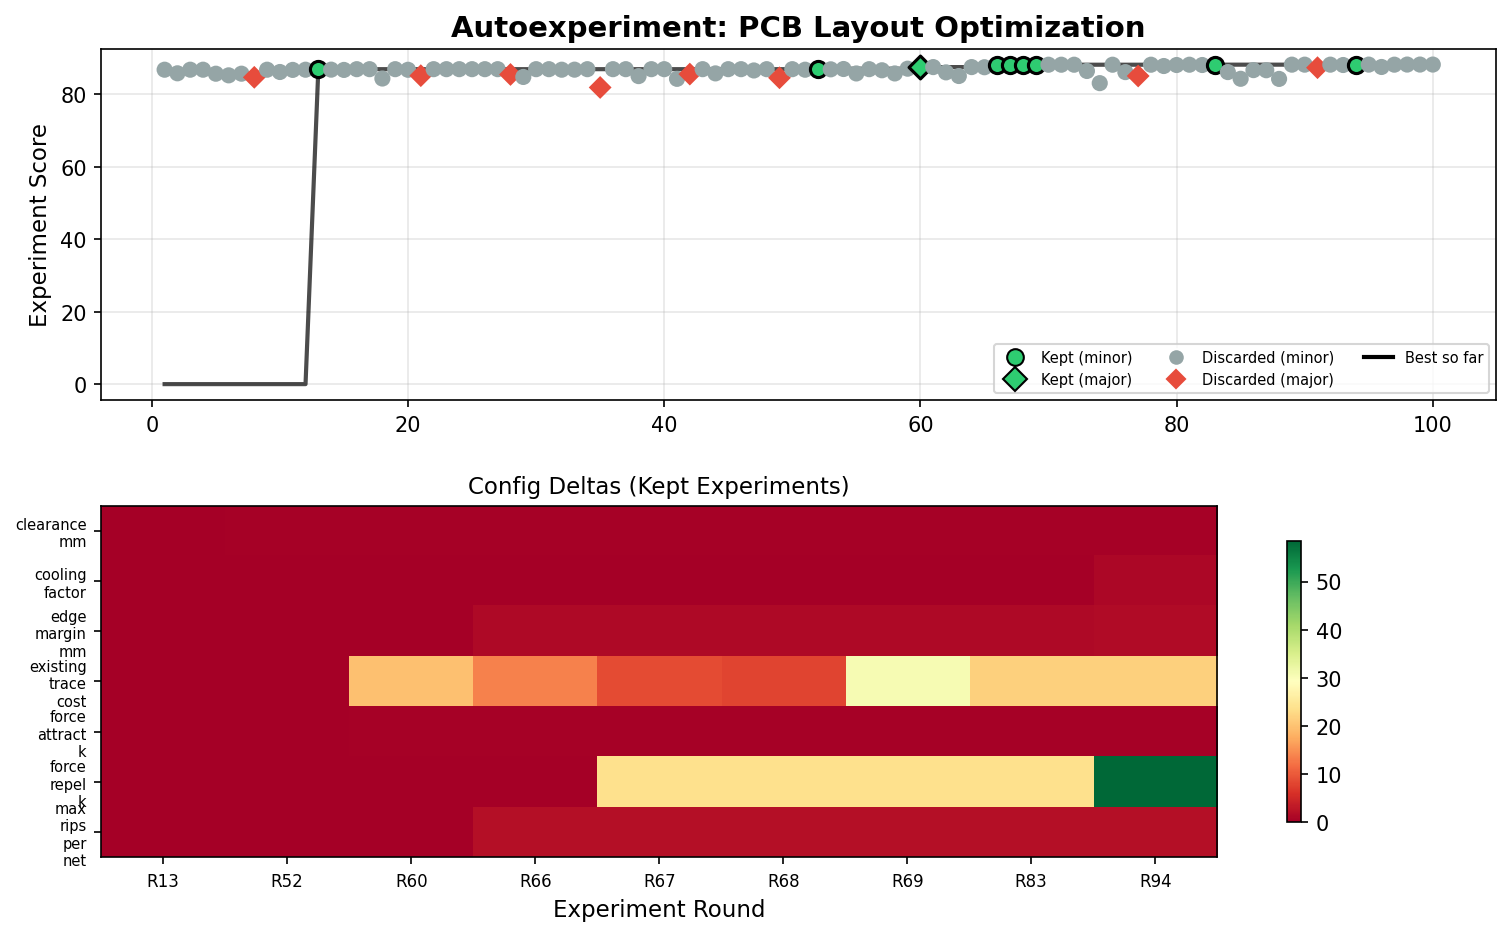
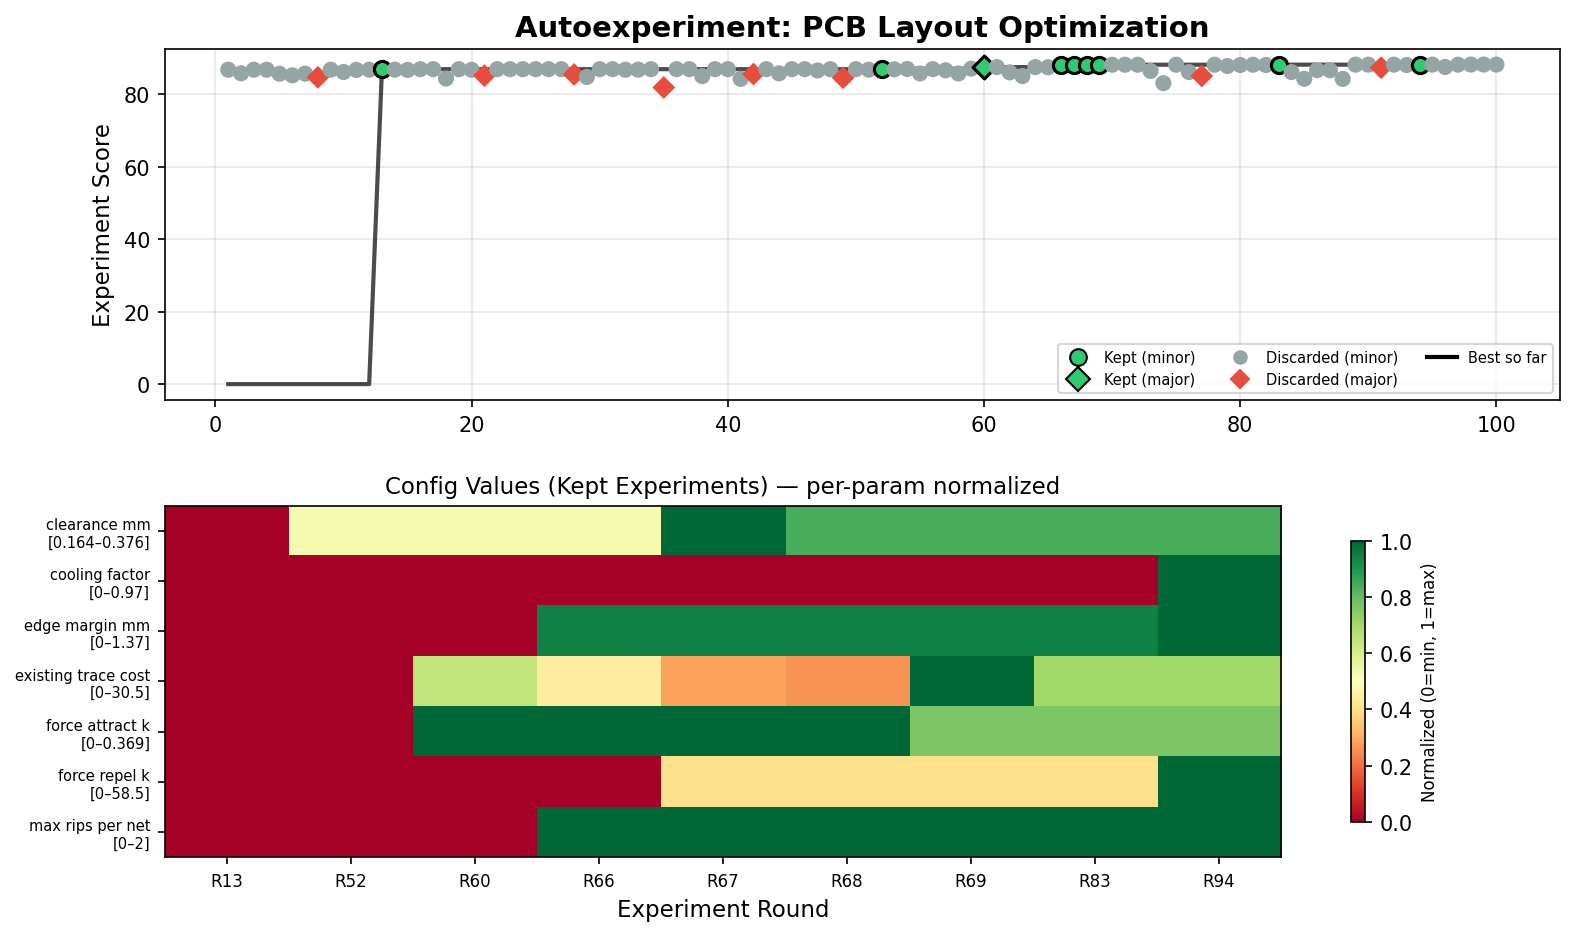
Normalize heatmap per-param to fix blown-out scale
Each parameter row is now 0-1 normalized with actual value
ranges shown in y-axis labels.

diff --git a/.claude/skills/kicad-helper/scripts/plot_experiments.py b/.claude/skills/kicad-helper/scripts/plot_experiments.py
@@ -83,14 +83,29 @@ def plot_experiments(experiments, output_path):
                 data.append(row)
                 labels.append(f"R{e['round_num']}")
 
-            ax2.set_title("Config Deltas (Kept Experiments)", fontsize=11)
+            ax2.set_title("Config Values (Kept Experiments) — per-param normalized", fontsize=11)
             if len(data) > 0 and len(data[0]) > 0:
-                im = ax2.imshow(np.array(data).T, aspect="auto", cmap="RdYlGn")
+                arr = np.array(data).T  # shape: (params, experiments)
+                # Normalize each param row to 0-1 so different scales don't blow out
+                for row_i in range(arr.shape[0]):
+                    row_min, row_max = arr[row_i].min(), arr[row_i].max()
+                    if row_max - row_min > 1e-9:
+                        arr[row_i] = (arr[row_i] - row_min) / (row_max - row_min)
+                    else:
+                        arr[row_i] = 0.5
+                im = ax2.imshow(arr, aspect="auto", cmap="RdYlGn", vmin=0, vmax=1)
                 ax2.set_xticks(range(len(labels)))
                 ax2.set_xticklabels(labels, fontsize=8)
                 ax2.set_yticks(range(len(all_keys)))
-                ax2.set_yticklabels([k.replace("_", "\n") for k in all_keys], fontsize=7)
-                plt.colorbar(im, ax=ax2, shrink=0.8)
+                # Show actual value range in label
+                raw = np.array(data).T
+                ylabels = []
+                for ki, k in enumerate(all_keys):
+                    lo, hi = raw[ki].min(), raw[ki].max()
+                    ylabels.append(f"{k.replace('_', ' ')}\n[{lo:.3g}–{hi:.3g}]")
+                ax2.set_yticklabels(ylabels, fontsize=7)
+                cbar = plt.colorbar(im, ax=ax2, shrink=0.8)
+                cbar.set_label("Normalized (0=min, 1=max)", fontsize=8)
             else:
                 ax2.text(0.5, 0.5, "No param changes in kept experiments",
                          ha="center", va="center", transform=ax2.transAxes)
